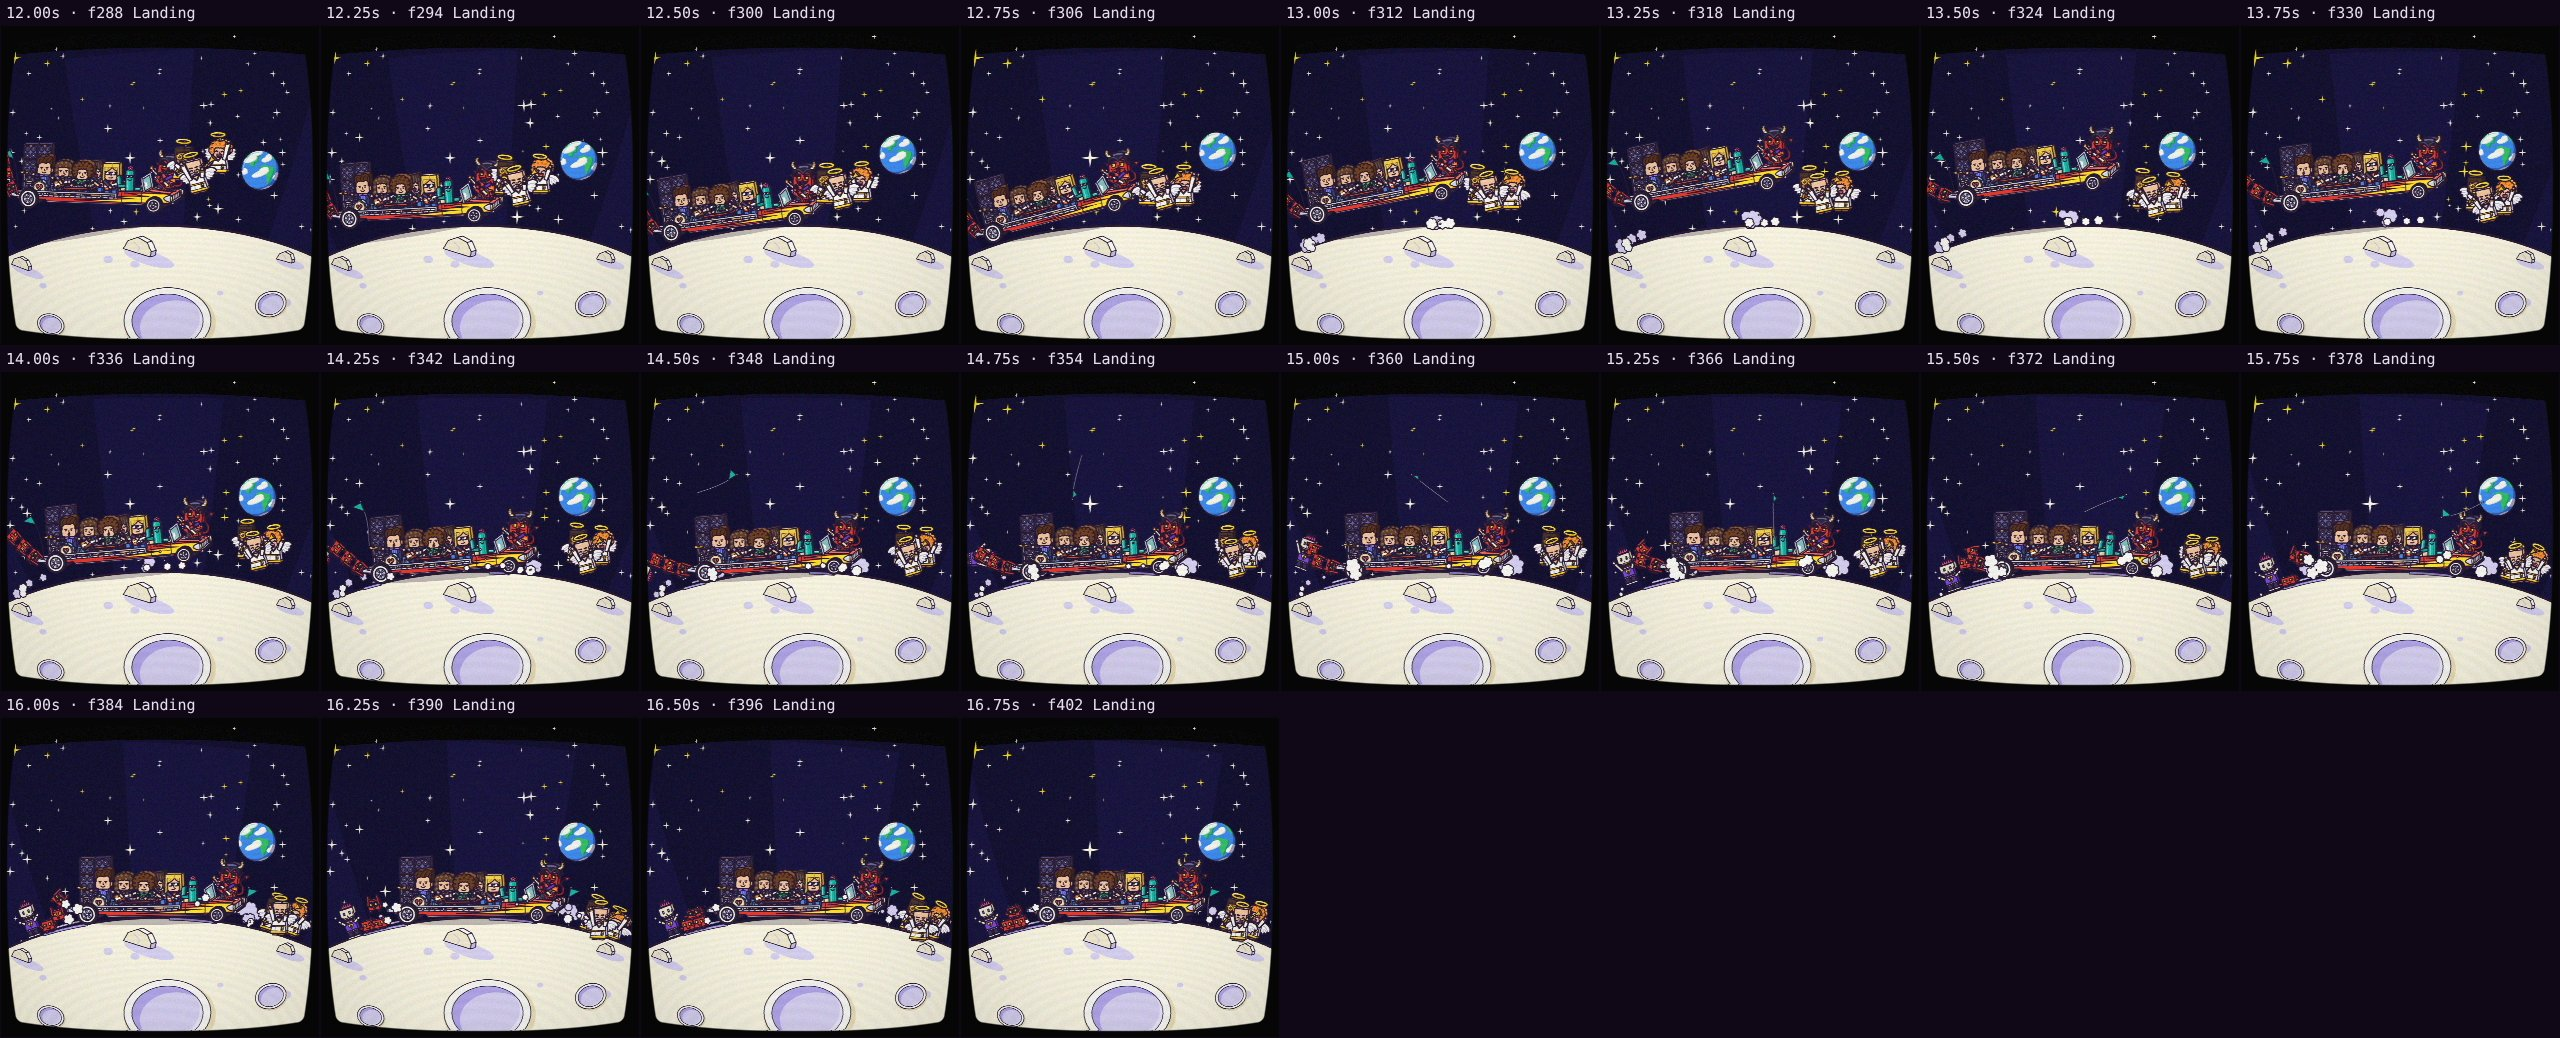
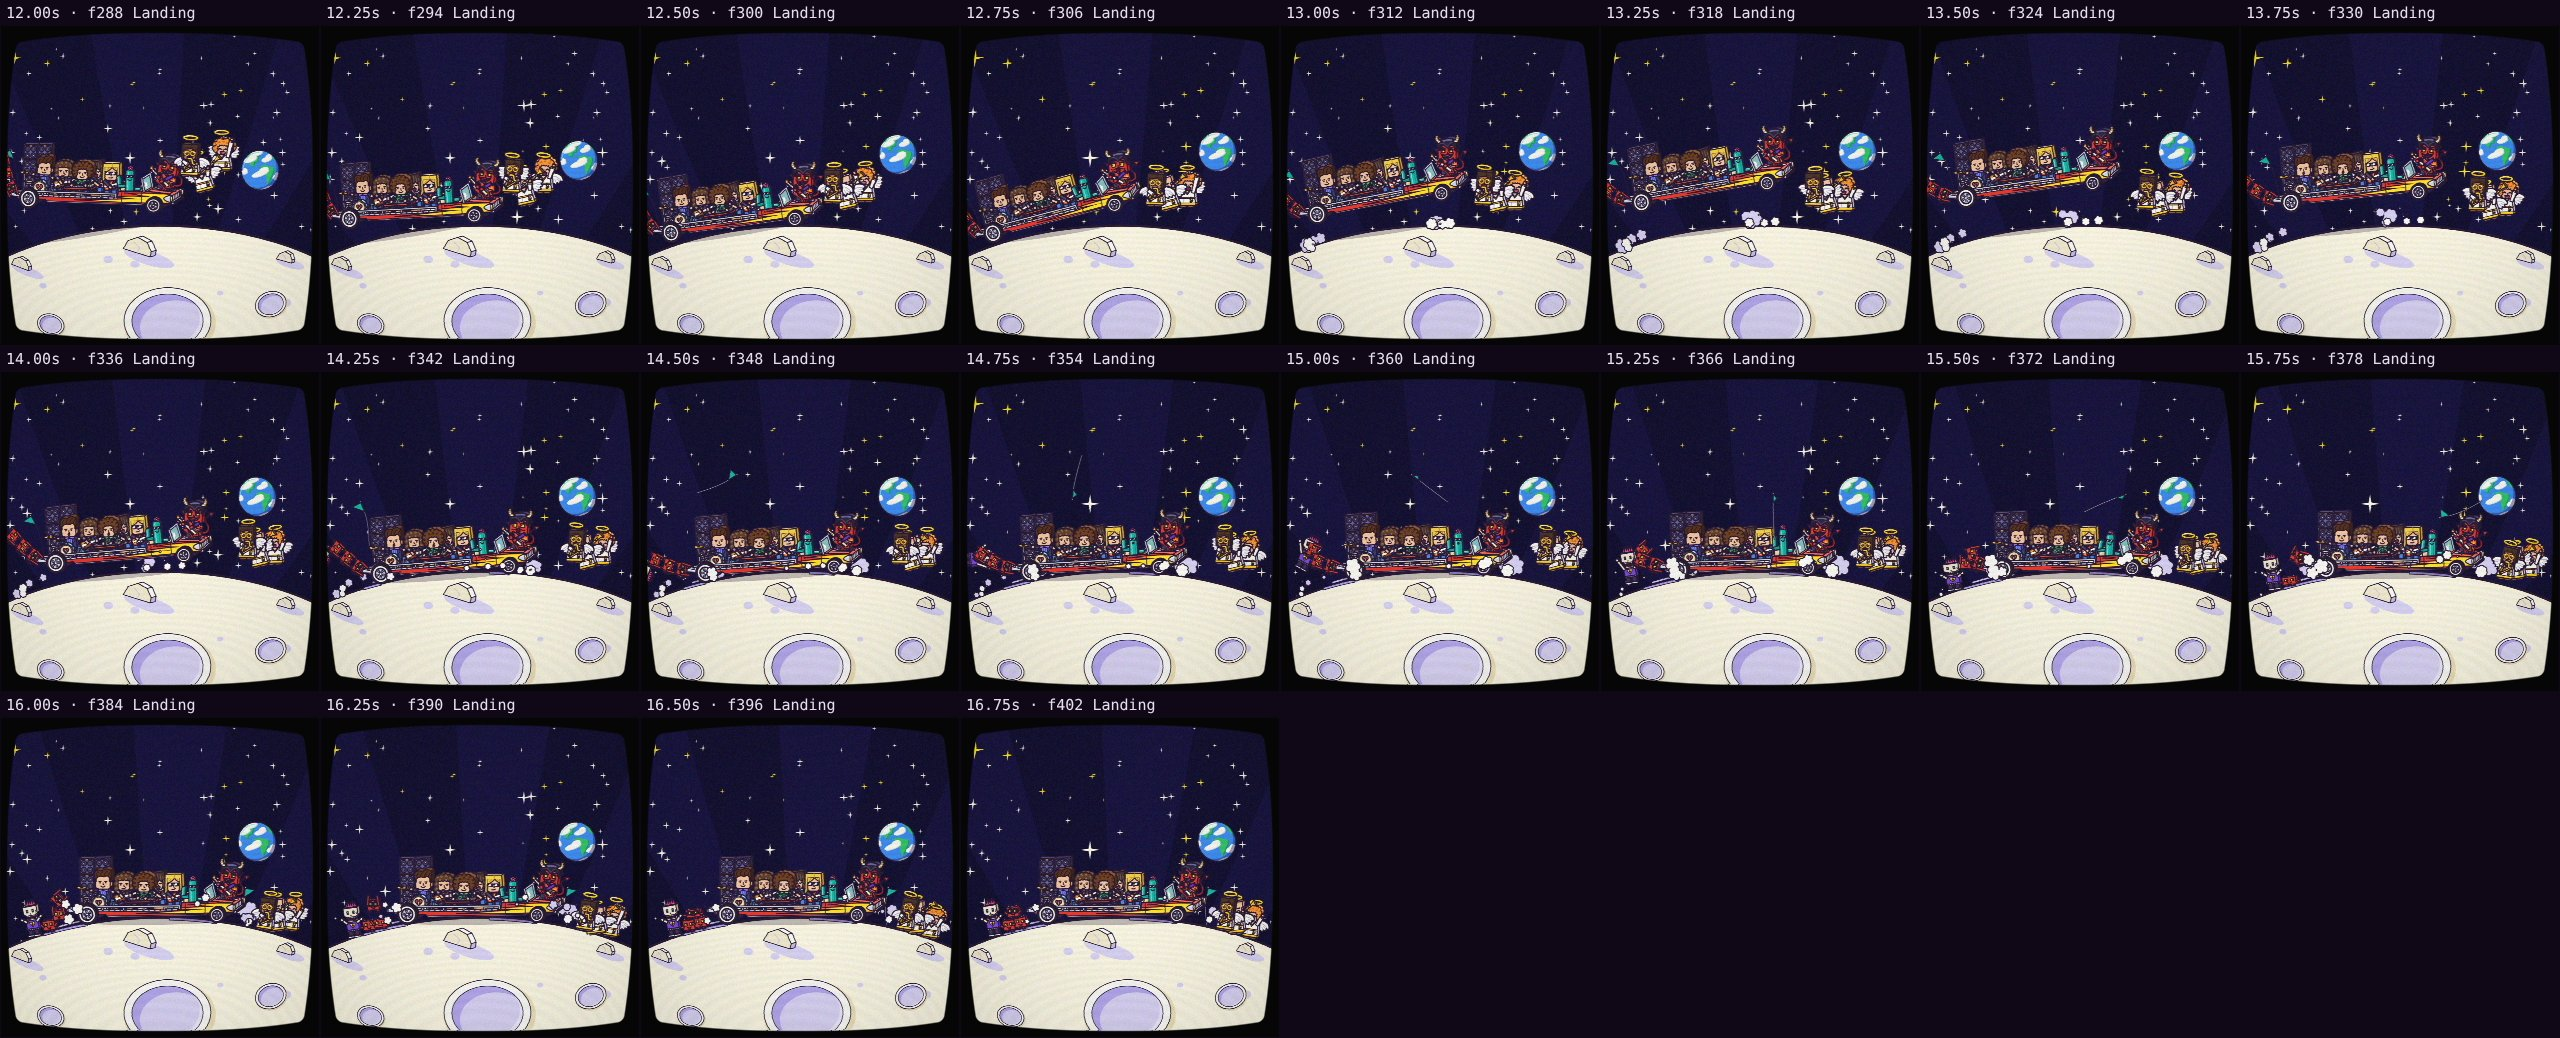
review(runnin-down-a-dream): round 10 logged · lessons on block arms, crowded decks and backing voices into the skills
Claude-Session: https://claude.ai/code/session_01UB8Eocu6YQhvkYFYMosPEV

diff --git a/sandbox/2026-11-11-runnin-down-a-dream/review.md b/sandbox/2026-11-11-runnin-down-a-dream/review.md
@@ -358,3 +358,34 @@ bug, the tape's label before PLAY); the user chose the final blue. After `STOP` 
 VCR's blue, `illodev x Claude` is typed on in the display's own stroke lettering (lower-case
 glyphs drawn in the same hand) and held; the film runs to 264 s, two silent seconds past the
 song, so it can be read. The fade block's agent was told while it worked.
+
+## Round 10 (user) · the film to 3:02: arms, the brazier, the «ooh»s
+
+> «Aquí un detalle de los brazos del demonio 2:44» (the box close-up)
+> «Aquí sale como cortado el recipiente de la llama con la llama y el demonio»
+> «Los "uuuuh uuuhh", no están sincronizados»
+> «En estas escenas hay algunos fallos, aunque hay tanta densidad de personajes que algunos
+> no se notan, pero por ejemplo los brazos de algunos personajes» (the deck in the stage view)
+
+- **The Devil's arms on the rail (2:44).** His mitts rested on the rail straight under his
+  shoulders: the block arm had no length, so it was a purple cube, a cuff and a mitt hanging
+  over the velvet, two pegs clipped to the rail. The mitts now meet at the middle of the rail
+  and the sleeves come down to them at an angle from the shoulders.
+- **The brazier.** The bowl's near wall was redrawn over the stirred fire only to the right
+  of him (a clip at his side), so between his leg and the clip the fire covered the bowl and
+  the bowl looked sawn off. Now in parts: the fire, the arm that goes into it, the fire's
+  front tongues, the bowl's wall whole, then the rest of him on top of its left end.
+- **Arms on the deck.** Howie's fretting mitt was hidden exactly behind Benmont's shoulder:
+  what showed was a cuff floating on Benmont (it read as Benmont's third arm). Howie stands
+  0.28 further left on the deck and frets low on the neck, so the mitt is on the neck in
+  sight in every block. In the bridge's last shot the Devil's fork lay on Mike's fretting
+  mitt and headstock: with Mike a step forward beside him, the Devil is drawn first, so
+  Mike's guitar and both his mitts stay whole (the duel block follows the same order).
+- **The «ooh»s.** They were eight long windows placed by ear (one of 11 s): the round mouths
+  opened two seconds early and never closed. Measured now: the vocal stem from an isolation
+  service holds the loud ones but gates the quiet ones out, so the clearest «woo» (1:37) was
+  used as a template against a constant-Q spectrogram of the whole mix. That gives an onset a
+  hair before every other bar: five after the second chorus (1:34.5 → 1:45.8) and three in
+  every eight bars from the bridge to the fade (2:50.7 → 4:21). 37 notes, each with its own
+  length; the imps' choir in the fake ad now sends a note up on each onset.
+- The six blocks of the finale are in the film: 264 s.

diff --git a/.claude/skills/sound/SKILL.md b/.claude/skills/sound/SKILL.md
@@ -99,3 +99,4 @@ in the scene, `render.mjs` adds it automatically. If you move a shot, move its c
 - 2026-11-04 · red-thread round 14 · Traditional Japanese instruments alone did not please the user; «lofi japonés que vaya cambiando el ritmo» did the job's brief better: per-scene pieces in one key (D) with a stated tempo and drum feel each (calm boom-bap 75 BPM, no drums, half-time trap 70, double time 140, rain and no drums, building 85, a breath then the full beat), Japanese colour from koto/shakuhachi/shamisen over the beat. The prompt guide asks for sound only (genre, mood, instruments, tempo, production), no story.
 - 2026-11-11 · runnin-down-a-dream · A videoclip for a song with a singer: before animating, map when each voice sings and put it in the timeline (`Song.singing(t)`), then drive mouths and lyric titles from it; a per-shot «the vocal is in» flag makes the singer sing through every gap («Tom sigue cantando en partes en las que no canta»), and a title of the song's words belongs on the phrase that says them. Without a transcription, the mix gives it away: a lead in the centre shows as mid over side, stacked chorus voices and «ooh» backing as side level, per sixteenth against instrumental bars (good to ~0.1 s). Ask the user for the lyrics and for a listen as soon as there is sound: frames cannot show this.
 - 2026-11-11 · runnin-down-a-dream · Correction to the line above: measuring the mix is not lip sync («las bocas no van sincronizadas»): it missed lines that start before their section and cannot see words. For any singer on screen get a word-level transcription first (speech-to-text with word timestamps worked on a full rock mix; it needs the service's key, asked through the session's credential form), keep it private, and generate from it only times and mouth shapes (`tools/make-vocals.py` in that experiment). Mouths, backing singers and lyric titles then read one function of t.
+- 2026-11-11 · runnin-down-a-dream round 10 · Backing «ooh»s need the same care as the lead («los uuuh no están sincronizados»): long windows placed by ear open the round mouths seconds early and never close them. A vocal stem from an isolation service holds the loud ones and gates the quiet ones to silence, so use it for lengths only; to find every one, take the clearest instance as a template (a 0.75 s patch of a constant-Q spectrogram, D4–D5) and correlate it against the whole mix: the real ones stand out (≥ 0.6 against a floor of 0.4–0.5) and fall on a regular place in the bar. Store one window per note.

diff --git a/.claude/skills/style-cereal-ad/SKILL.md b/.claude/skills/style-cereal-ad/SKILL.md
@@ -100,3 +100,6 @@ frets, tuners, strings); letters whose sides show their bands; no shape touching
 - 2026-11-11 · runnin-down-a-dream · A scrolling set's foreground layer belongs to travelling shots only: on a static shot the one big near object sits on an actor for the whole shot.
 - 2026-11-11 · runnin-down-a-dream · Rigs keep the beat: put «the band on its car, everybody playing on the kick and the snare» in one module (who is aboard, what the car does, pose overrides), so segments stage the action instead of posing five people.
 - 2026-11-11 · runnin-down-a-dream · A shot that lays a piece of its own over a generated set (a side road across the verge, a pit) first clears the set's objects from under it (`World.back`'s `clear`): the user caught a road painted over a cactus's foot.
+- 2026-11-11 · runnin-down-a-dream round 10 · A block arm is a sleeve, a cuff and a mitt along one line from the shoulder: with the mitt straight under the shoulder (resting on a rail at chest height) it has no length and reads as a peg clipped to the rail. Give every resting arm an angle and a visible sleeve (mitts meeting at the middle), and crop the pose at full size before the block is done.
+- 2026-11-11 · runnin-down-a-dream round 10 · On a crowded stage, check both mitts of every player at the closest framing the film uses, not in the wide: a mitt hidden exactly behind a neighbour leaves a cuff floating on the neighbour («los brazos de algunos personajes»). Either the mitt is in sight on its instrument or the whole forearm is hidden; fix it in the rig (who stands where, how low he frets), so every block gets it. Two players whose necks point at each other: draw the one behind first, whole, and keep the front one's instrument and mitts unbroken.
+- 2026-11-11 · runnin-down-a-dream round 10 · Someone standing in front of a prop and reaching into it is drawn in parts (the reaching arm, the prop's contents, the prop's near wall whole, then the body), never by clipping the prop at the body's side: the gap between the body and the clip shows the prop sawn off.

diff --git a/sandbox/2026-11-11-runnin-down-a-dream/dev/solo5/review/auto.md b/sandbox/2026-11-11-runnin-down-a-dream/dev/solo5/review/auto.md
@@ -1,0 +1,27 @@
+# Automatic review · sandbox/2026-11-11-runnin-down-a-dream/dev/solo5/scene.js
+
+960×960 px · 24 fps · 16.96 s · 407 frames · 169.97 BPM
+
+## Warnings
+
+- None.
+
+## Motion
+
+Energy per second (how much the image changes):
+
+```
+▅▆▇▅▇▇▇▇▇▆▇▆█▆▇▆▆
+0    5    10   15   
+```
+
+No still stretches of 1 s or more.
+
+## Speed
+
+Painting: 135 ms/frame cold, 122 ms warm → full render ≈ 50 s at this size.
+
+## Contact sheet
+
+![sheet](sheet-1.jpg)
+![sheet](sheet-2.jpg)

diff --git a/sandbox/2026-11-11-runnin-down-a-dream/dev/solo4/review/auto.md b/sandbox/2026-11-11-runnin-down-a-dream/dev/solo4/review/auto.md
@@ -19,7 +19,7 @@ No still stretches of 1 s or more.
 
 ## Speed
 
-Painting: 140 ms/frame cold, 108 ms warm → full render ≈ 44 s at this size.
+Painting: 171 ms/frame cold, 148 ms warm → full render ≈ 60 s at this size.
 
 ## Contact sheet
 
